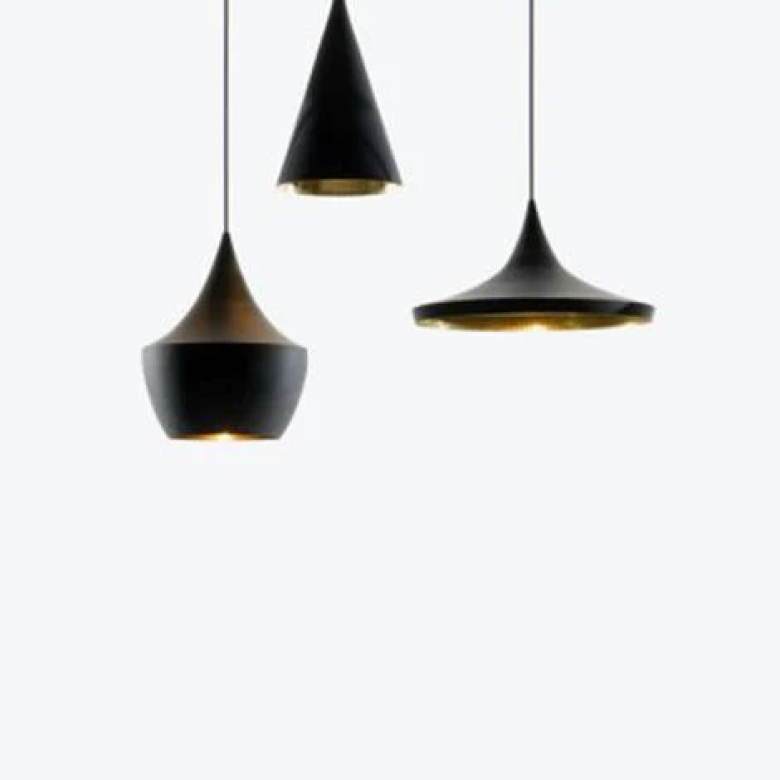
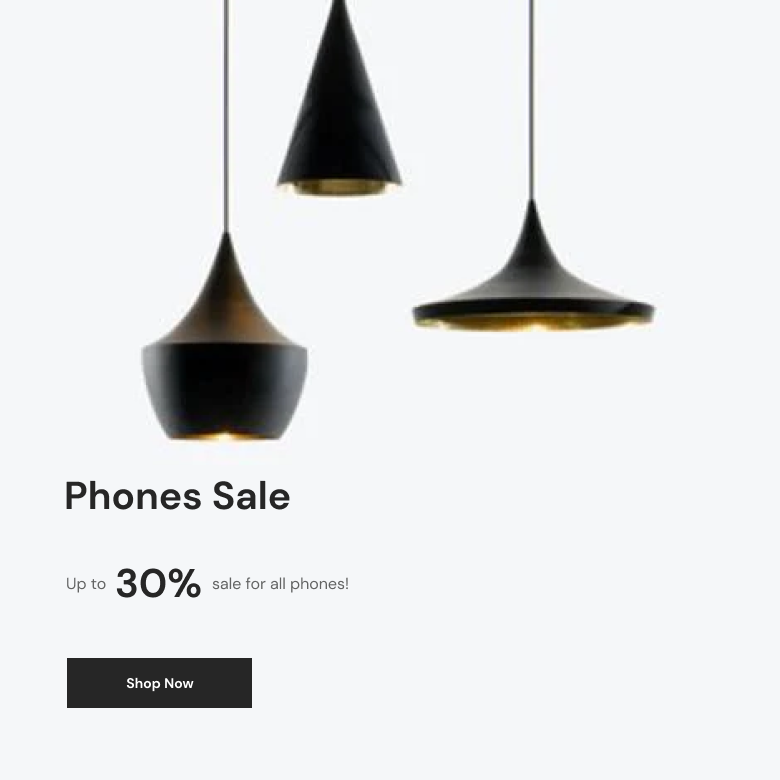
add part

Changed region(s): [[0.0615, 0.8308, 0.3385, 0.9231], [0.0923, 0.7077, 0.4615, 0.7692], [0.0615, 0.6154, 0.3692, 0.6769]]

diff --git a/src/components/Add.jsx b/src/components/Add.jsx
@@ -1,0 +1,29 @@
+import addImg from '../assets/ad.png'
+import addImg1 from '../assets/ad1.png'
+import addImg2 from '../assets/ad2.png'
+
+const Add = () => {
+  return (
+    <>
+     <div className="lg:pt-[100px] pt-[50px] lg:pb-[60px] pb-[20px]">
+      <div className="lg:w-10/12 mx-auto w-11/12">
+       <div className="flex lg:gap-x-8 gap-x-3">
+        <div className="w-2/4">
+          <div className="">
+            <img src={addImg} alt="" className='w-full'/>
+          </div>
+        </div>
+        <div className="w-2/4">
+          <div className="">
+            <img src={addImg1} alt="" className='w-full'/>
+            <img src={addImg2} alt="" className='w-full lg:pt-8 pt-3'/>
+          </div>
+        </div>
+       </div>
+      </div>
+     </div>
+    </>
+  )
+}
+
+export default Add

diff --git a/src/pages/Home.jsx b/src/pages/Home.jsx
@@ -1,3 +1,4 @@
+import Add from "../components/Add"
 import Banner from "../components/Banner"
 import Information from "../components/Information"
 import Navbar from "../components/Navbar"
@@ -10,6 +11,7 @@ const Home = () => {
       <NavbarB></NavbarB>
       <Banner></Banner>
       <Information></Information>
+      <Add></Add>
     </>
   )
 }
